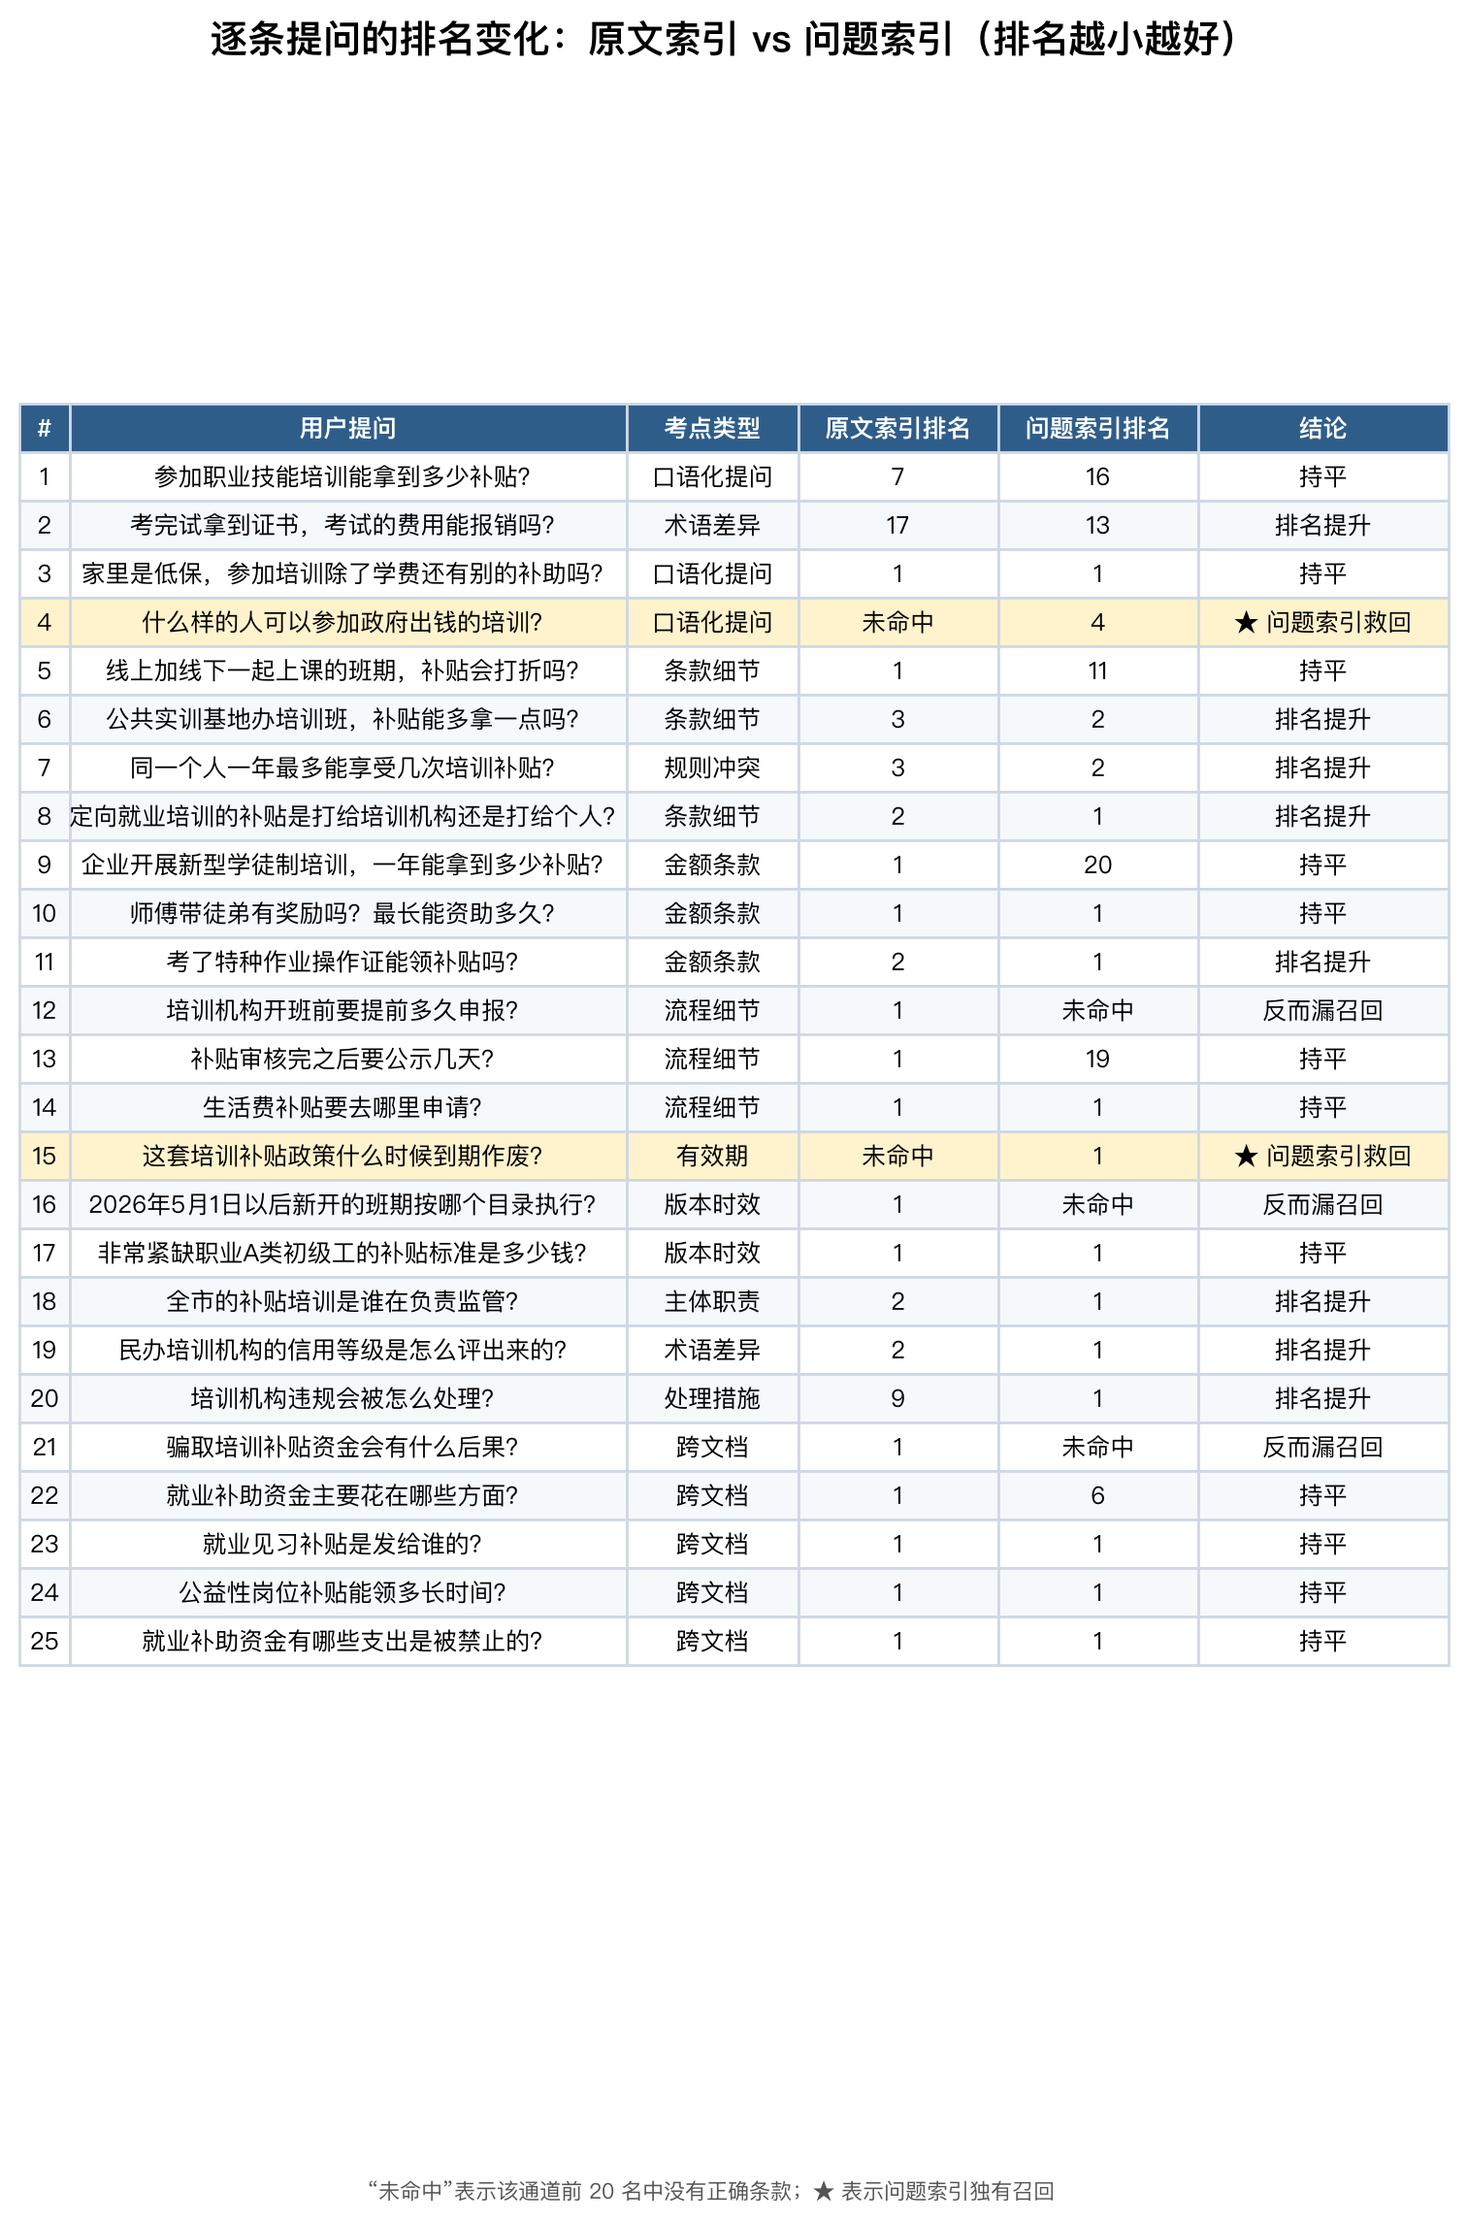
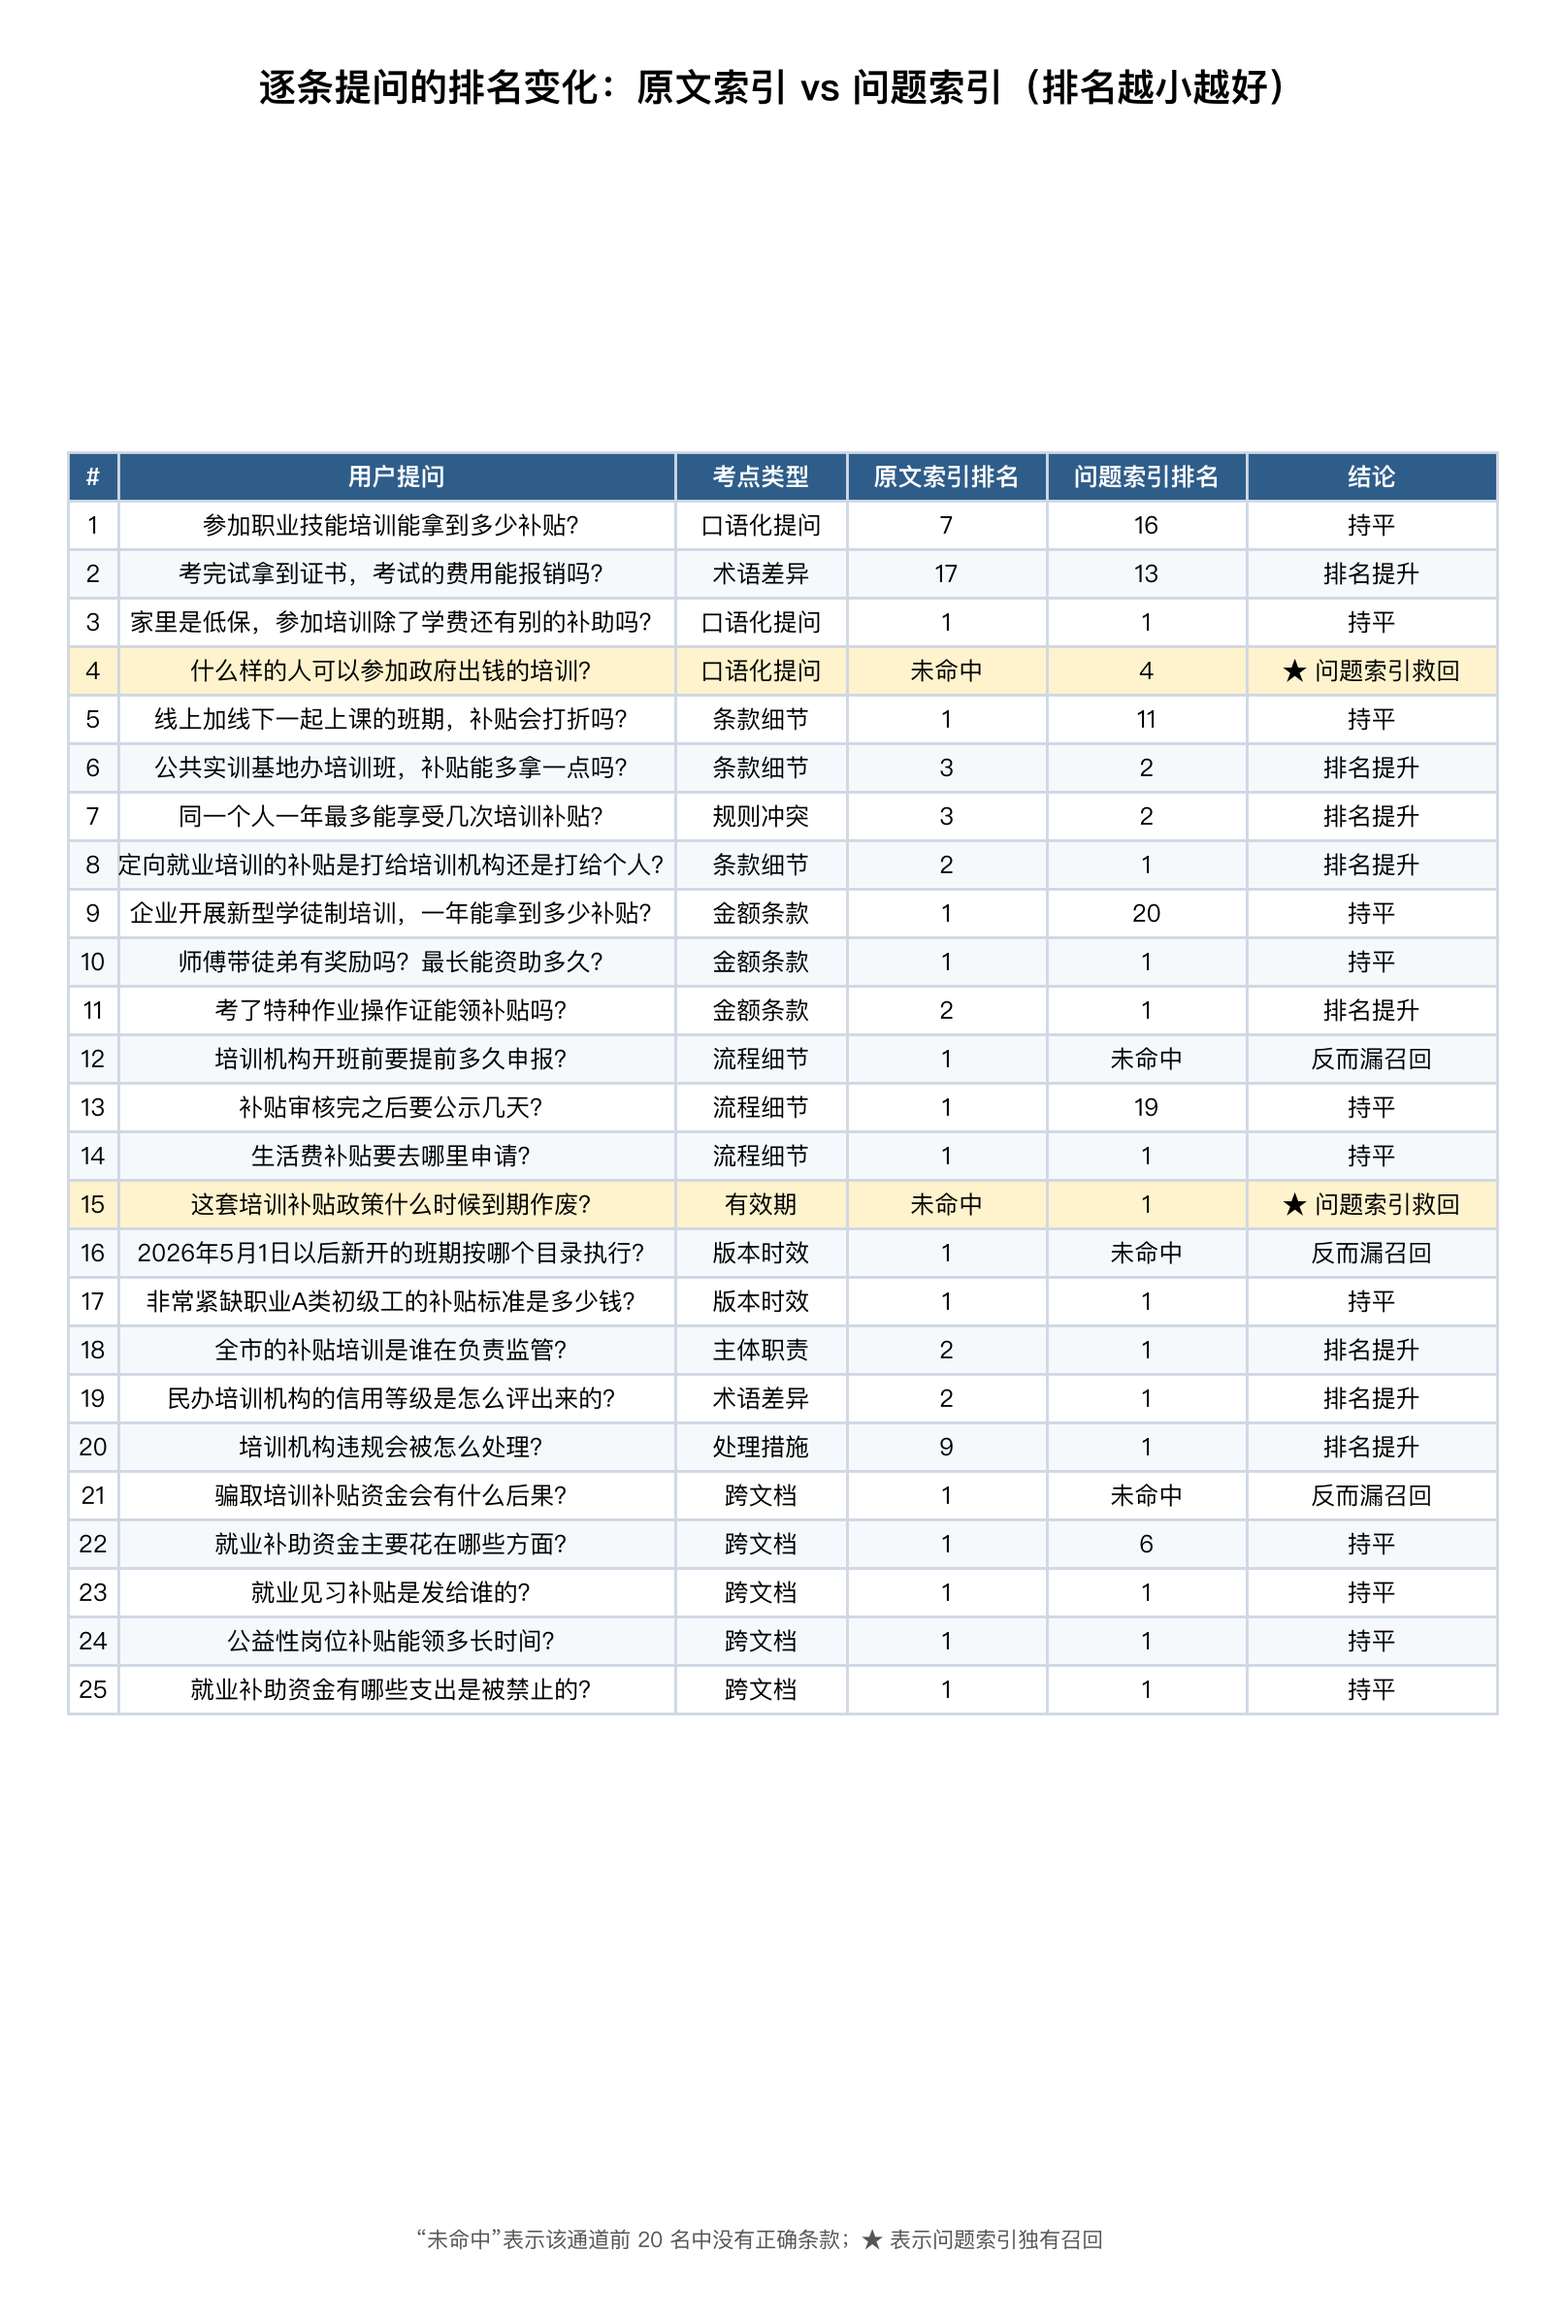
fix: 修复对比表首列被裁剪（首列加宽 + 导出留白）

diff --git a/src/kb_question_boost.py b/src/kb_question_boost.py
@@ -201,7 +201,7 @@ def report(result: dict, records: list, cache: dict, num_questions: int, top_k: 
         note=(f"知识库 {len(records)} 个切片，每切片生成 {num_questions} 个口语化问题，"
               f"问题索引共 {sum(len(v) for v in cache.values())} 条；测试集 {len(rows)} 条"
               f"（含口语化提问、术语差异、版本时效、规则冲突等考点）；括号内为相对原文索引的 MRR 变化"),
-        highlight_rows=[1, 2])
+        highlight_rows=[1, 2], col_widths=[0.36, 0.16, 0.16, 0.16, 0.16])
 
     detail = []
     for i, row in enumerate(rows, 1):

diff --git a/src/text_utils.py b/src/text_utils.py
@@ -127,7 +127,7 @@ def render_table_png(title: str, headers: list, rows: list, path, note: str = No
         fig.text(0.5, 0.015, note, ha="center", fontsize=8, color="#555555")
     path = Path(path)
     path.parent.mkdir(parents=True, exist_ok=True)
-    fig.savefig(path, bbox_inches="tight", facecolor="white")
+    fig.savefig(path, bbox_inches="tight", pad_inches=0.35, facecolor="white")
     plt.close(fig)
     print(f"[报表] 已生成: {path}")
     return path
